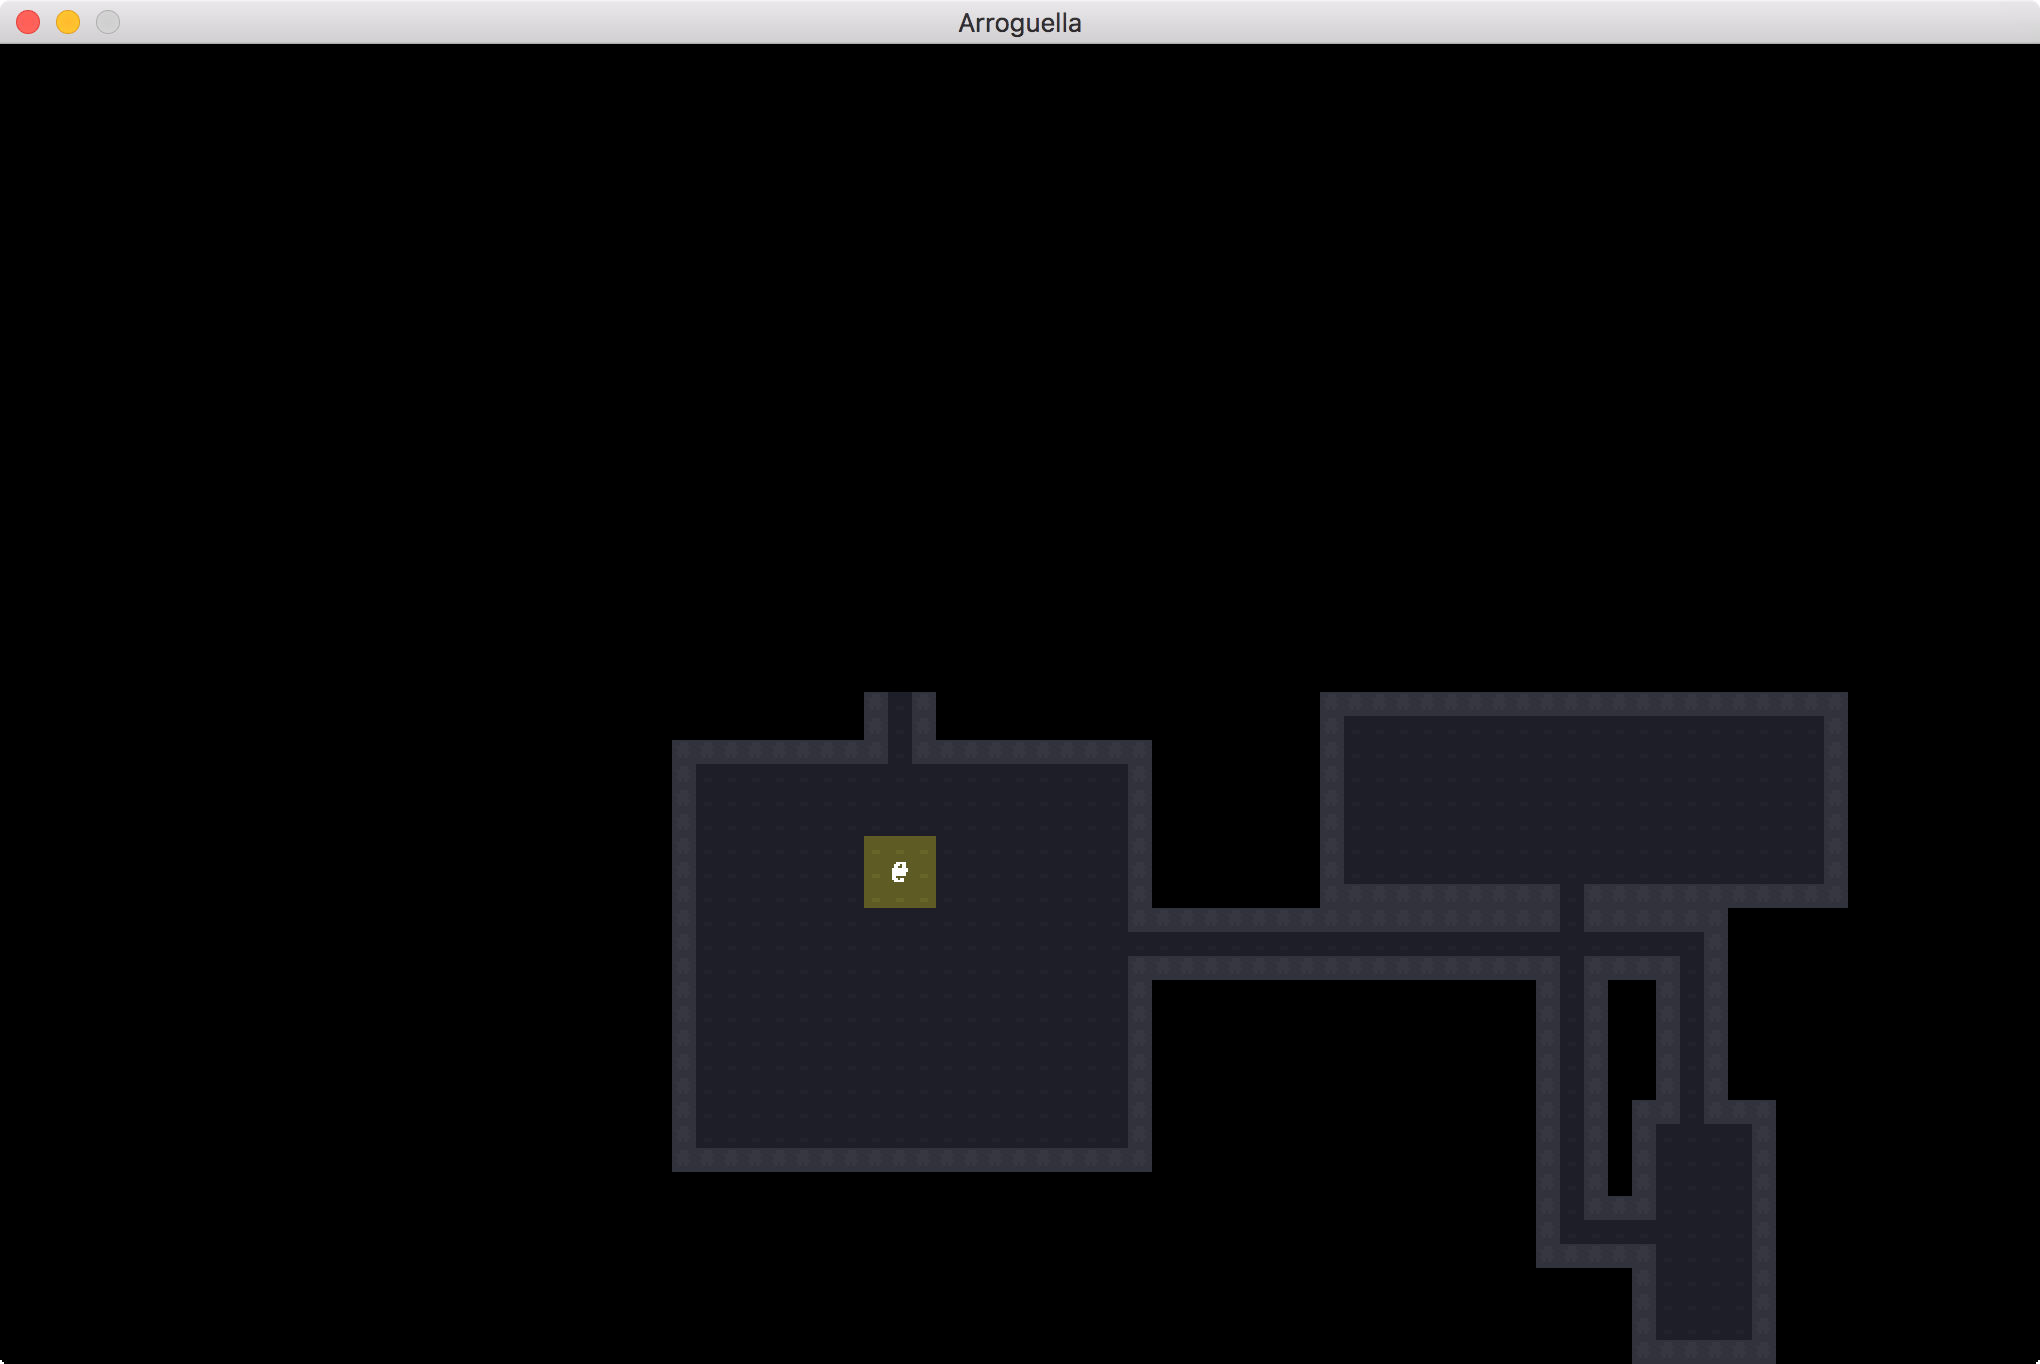
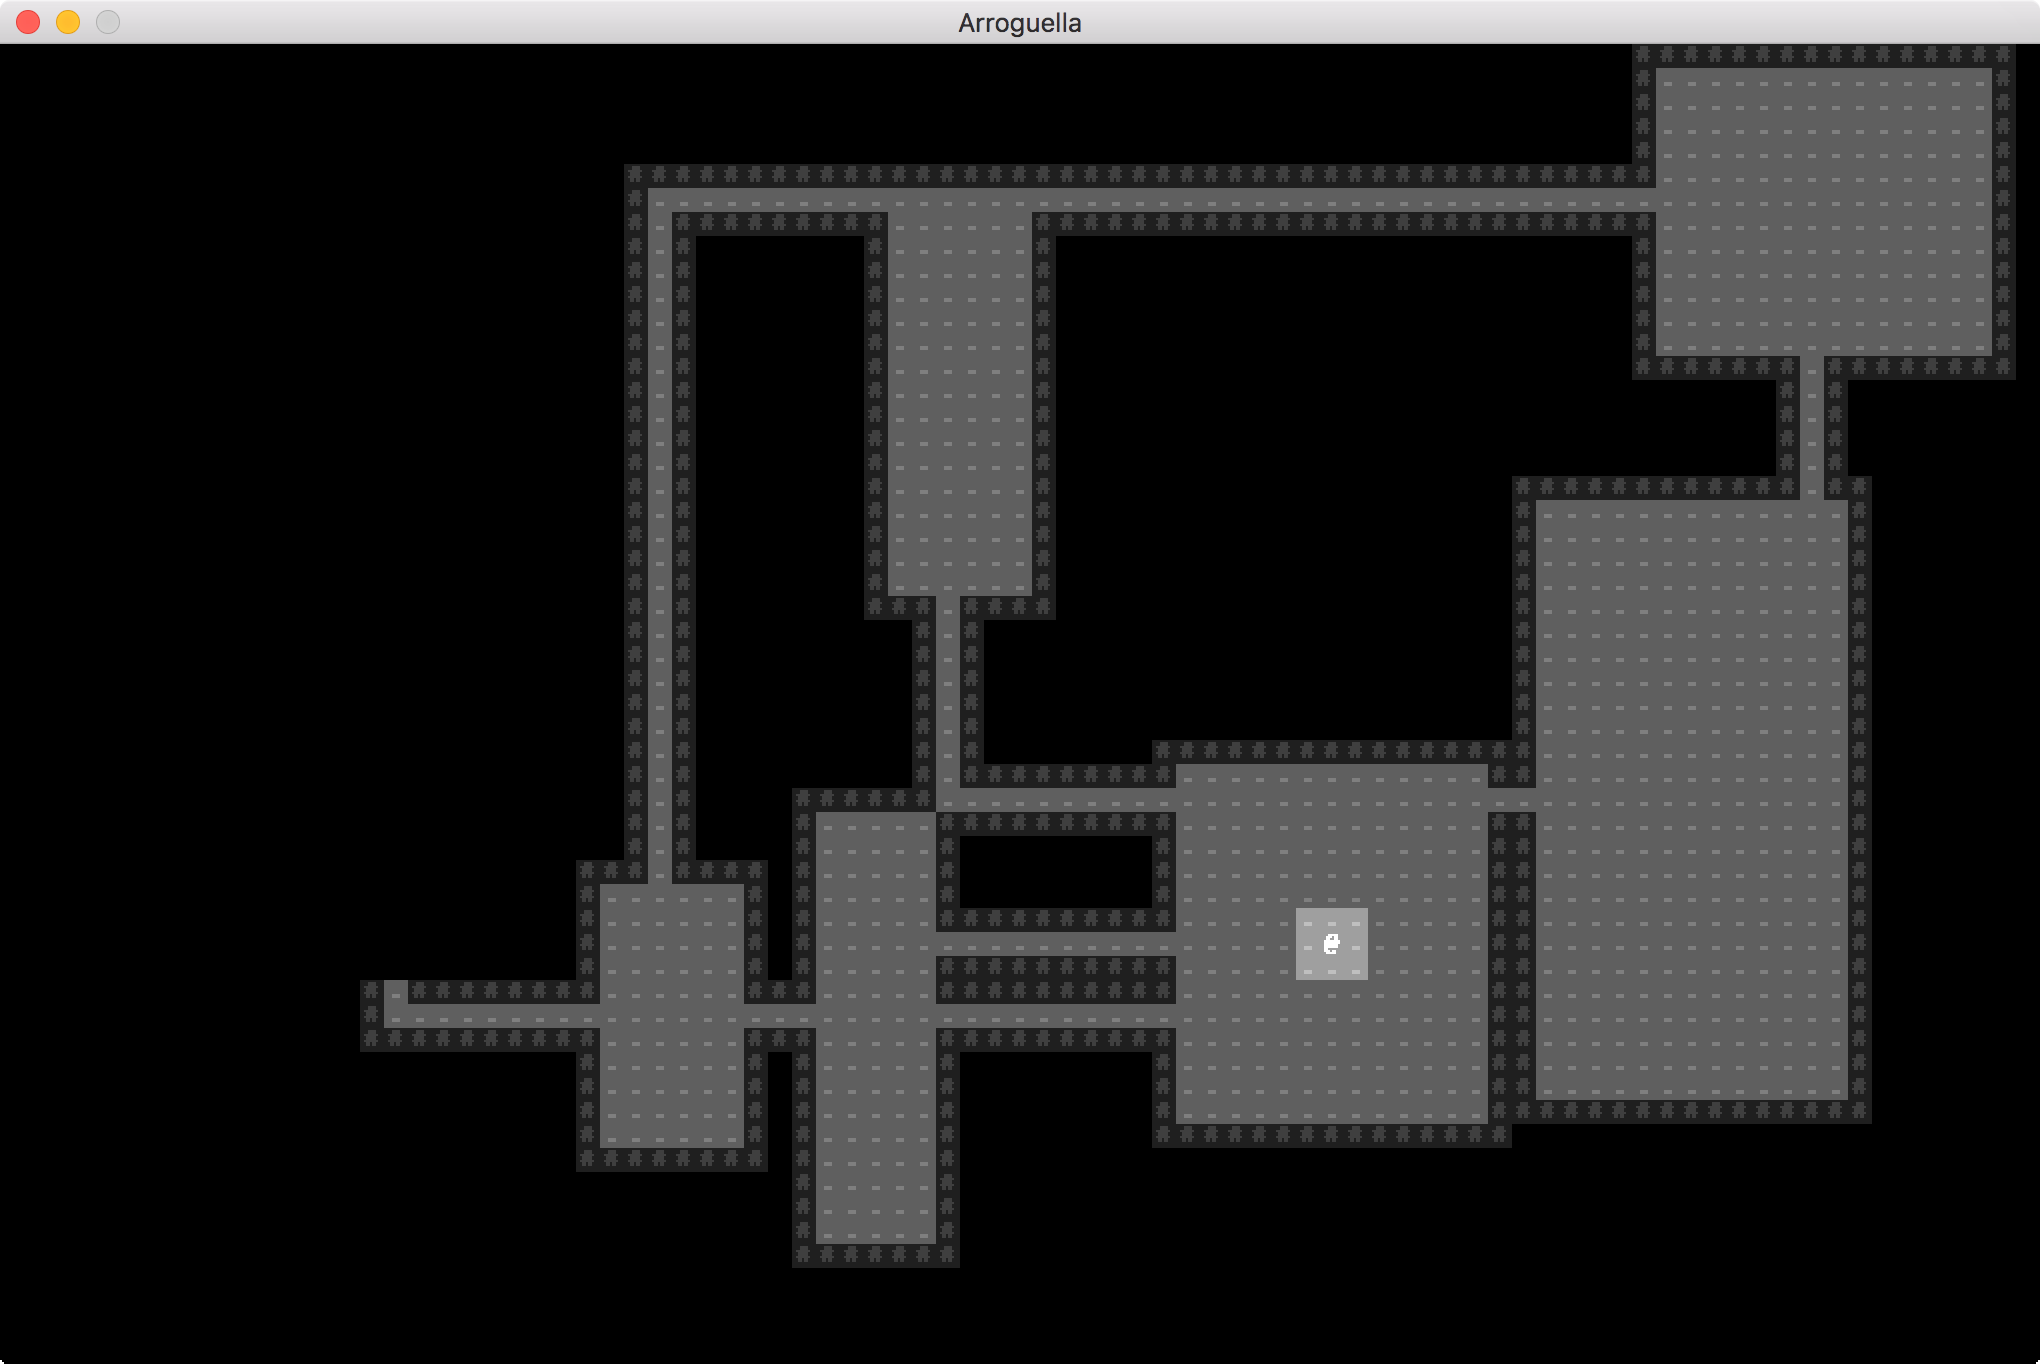
Switch to using libtcod colors

diff --git a/arroguella/colors.py b/arroguella/colors.py
@@ -1,0 +1,220 @@
+# grey levels
+black=(0,0,0)
+darkest_grey=(31,31,31)
+darker_grey=(63,63,63)
+dark_grey=(95,95,95)
+grey=(127,127,127)
+light_grey=(159,159,159)
+lighter_grey=(191,191,191)
+lightest_grey=(223,223,223)
+darkest_gray=(31,31,31)
+darker_gray=(63,63,63)
+dark_gray=(95,95,95)
+gray=(127,127,127)
+light_gray=(159,159,159)
+lighter_gray=(191,191,191)
+lightest_gray=(223,223,223)
+white=(255,255,255)
+
+# sepia
+darkest_sepia=(31,24,15)
+darker_sepia=(63,50,31)
+dark_sepia=(94,75,47)
+sepia=(127,101,63)
+light_sepia=(158,134,100)
+lighter_sepia=(191,171,143)
+lightest_sepia=(222,211,195)
+
+#standard s
+red=(255,0,0)
+flame=(255,63,0)
+orange=(255,127,0)
+amber=(255,191,0)
+yellow=(255,255,0)
+lime=(191,255,0)
+chartreuse=(127,255,0)
+green=(0,255,0)
+sea=(0,255,127)
+turquoise=(0,255,191)
+cyan=(0,255,255)
+sky=(0,191,255)
+azure=(0,127,255)
+blue=(0,0,255)
+han=(63,0,255)
+violet=(127,0,255)
+purple=(191,0,255)
+fuchsia=(255,0,255)
+magenta=(255,0,191)
+pink=(255,0,127)
+crimson=(255,0,63)
+
+# dark s
+dark_red=(191,0,0)
+dark_flame=(191,47,0)
+dark_orange=(191,95,0)
+dark_amber=(191,143,0)
+dark_yellow=(191,191,0)
+dark_lime=(143,191,0)
+dark_chartreuse=(95,191,0)
+dark_green=(0,191,0)
+dark_sea=(0,191,95)
+dark_turquoise=(0,191,143)
+dark_cyan=(0,191,191)
+dark_sky=(0,143,191)
+dark_azure=(0,95,191)
+dark_blue=(0,0,191)
+dark_han=(47,0,191)
+dark_violet=(95,0,191)
+dark_purple=(143,0,191)
+dark_fuchsia=(191,0,191)
+dark_magenta=(191,0,143)
+dark_pink=(191,0,95)
+dark_crimson=(191,0,47)
+
+# darker s
+darker_red=(127,0,0)
+darker_flame=(127,31,0)
+darker_orange=(127,63,0)
+darker_amber=(127,95,0)
+darker_yellow=(127,127,0)
+darker_lime=(95,127,0)
+darker_chartreuse=(63,127,0)
+darker_green=(0,127,0)
+darker_sea=(0,127,63)
+darker_turquoise=(0,127,95)
+darker_cyan=(0,127,127)
+darker_sky=(0,95,127)
+darker_azure=(0,63,127)
+darker_blue=(0,0,127)
+darker_han=(31,0,127)
+darker_violet=(63,0,127)
+darker_purple=(95,0,127)
+darker_fuchsia=(127,0,127)
+darker_magenta=(127,0,95)
+darker_pink=(127,0,63)
+darker_crimson=(127,0,31)
+
+# darkest s
+darkest_red=(63,0,0)
+darkest_flame=(63,15,0)
+darkest_orange=(63,31,0)
+darkest_amber=(63,47,0)
+darkest_yellow=(63,63,0)
+darkest_lime=(47,63,0)
+darkest_chartreuse=(31,63,0)
+darkest_green=(0,63,0)
+darkest_sea=(0,63,31)
+darkest_turquoise=(0,63,47)
+darkest_cyan=(0,63,63)
+darkest_sky=(0,47,63)
+darkest_azure=(0,31,63)
+darkest_blue=(0,0,63)
+darkest_han=(15,0,63)
+darkest_violet=(31,0,63)
+darkest_purple=(47,0,63)
+darkest_fuchsia=(63,0,63)
+darkest_magenta=(63,0,47)
+darkest_pink=(63,0,31)
+darkest_crimson=(63,0,15)
+
+# light s
+light_red=(255,114,114)
+light_flame=(255,149,114)
+light_orange=(255,184,114)
+light_amber=(255,219,114)
+light_yellow=(255,255,114)
+light_lime=(219,255,114)
+light_chartreuse=(184,255,114)
+light_green=(114,255,114)
+light_sea=(114,255,184)
+light_turquoise=(114,255,219)
+light_cyan=(114,255,255)
+light_sky=(114,219,255)
+light_azure=(114,184,255)
+light_blue=(114,114,255)
+light_han=(149,114,255)
+light_violet=(184,114,255)
+light_purple=(219,114,255)
+light_fuchsia=(255,114,255)
+light_magenta=(255,114,219)
+light_pink=(255,114,184)
+light_crimson=(255,114,149)
+
+#lighter s
+lighter_red=(255,165,165)
+lighter_flame=(255,188,165)
+lighter_orange=(255,210,165)
+lighter_amber=(255,232,165)
+lighter_yellow=(255,255,165)
+lighter_lime=(232,255,165)
+lighter_chartreuse=(210,255,165)
+lighter_green=(165,255,165)
+lighter_sea=(165,255,210)
+lighter_turquoise=(165,255,232)
+lighter_cyan=(165,255,255)
+lighter_sky=(165,232,255)
+lighter_azure=(165,210,255)
+lighter_blue=(165,165,255)
+lighter_han=(188,165,255)
+lighter_violet=(210,165,255)
+lighter_purple=(232,165,255)
+lighter_fuchsia=(255,165,255)
+lighter_magenta=(255,165,232)
+lighter_pink=(255,165,210)
+lighter_crimson=(255,165,188)
+
+# lightest s
+lightest_red=(255,191,191)
+lightest_flame=(255,207,191)
+lightest_orange=(255,223,191)
+lightest_amber=(255,239,191)
+lightest_yellow=(255,255,191)
+lightest_lime=(239,255,191)
+lightest_chartreuse=(223,255,191)
+lightest_green=(191,255,191)
+lightest_sea=(191,255,223)
+lightest_turquoise=(191,255,239)
+lightest_cyan=(191,255,255)
+lightest_sky=(191,239,255)
+lightest_azure=(191,223,255)
+lightest_blue=(191,191,255)
+lightest_han=(207,191,255)
+lightest_violet=(223,191,255)
+lightest_purple=(239,191,255)
+lightest_fuchsia=(255,191,255)
+lightest_magenta=(255,191,239)
+lightest_pink=(255,191,223)
+lightest_crimson=(255,191,207)
+
+# desaturated s
+desaturated_red=(127,63,63)
+desaturated_flame=(127,79,63)
+desaturated_orange=(127,95,63)
+desaturated_amber=(127,111,63)
+desaturated_yellow=(127,127,63)
+desaturated_lime=(111,127,63)
+desaturated_chartreuse=(95,127,63)
+desaturated_green=(63,127,63)
+desaturated_sea=(63,127,95)
+desaturated_turquoise=(63,127,111)
+desaturated_cyan=(63,127,127)
+desaturated_sky=(63,111,127)
+desaturated_azure=(63,95,127)
+desaturated_blue=(63,63,127)
+desaturated_han=(79,63,127)
+desaturated_violet=(95,63,127)
+desaturated_purple=(111,63,127)
+desaturated_fuchsia=(127,63,127)
+desaturated_magenta=(127,63,111)
+desaturated_pink=(127,63,95)
+desaturated_crimson=(127,63,79)
+
+# metallic
+brass=(191,151,96)
+copper=(197,136,124)
+gold=(229,191,0)
+silver=(203,203,203)
+
+# miscellaneous
+celadon=(172,255,175)
+peach=(255,159,127)

diff --git a/arroguella/map/map.py b/arroguella/map/map.py
@@ -1,5 +1,5 @@
 from . import tile
-from . import colors
+from arroguella import colors as colors
 from .geometry import rect
 from random import randint
 
@@ -90,15 +90,15 @@ class Map:
                     # If it's not visible right now, the player can only see it if it's explored
                     if self.tiles[x][y].explored:
                         if wall:
-                            console.draw_char(x, y, char, fg=colors.WALLS['dark_wall_fg'], bg=colors.WALLS['dark_wall_bg'])
+                            console.draw_char(x, y, char, fg=colors.darker_grey, bg=colors.darkest_grey)
                         else:
-                            console.draw_char(x, y, char, fg=colors.TERRAIN['dark_ground_fg'], bg=colors.TERRAIN['dark_ground_bg'])
+                            console.draw_char(x, y, char, fg=colors.grey, bg=colors.dark_grey)
                 else:
                     # It's visible in FOV / it's light
                     if wall:
-                        console.draw_char(x, y, char, fg=colors.WALLS['light_wall_fg'], bg=colors.WALLS['light_wall_bg'])
+                        console.draw_char(x, y, char, fg=colors.grey, bg=colors.dark_grey)
                     else:
-                        console.draw_char(x, y, char, fg=colors.TERRAIN['light_ground_fg'], bg=colors.TERRAIN['light_ground_bg'])
+                        console.draw_char(x, y, char, fg=colors.lighter_grey, bg=colors.light_grey)
                     # Since it's visible, explore it:
                     self.tiles[x][y].explored = True
 
